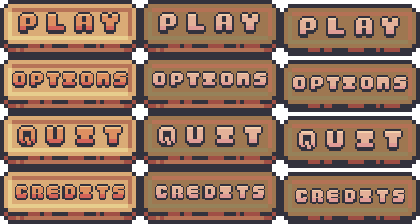
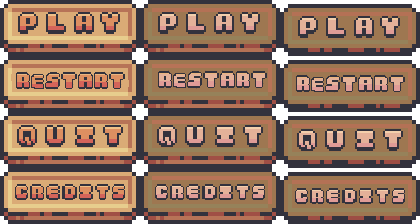
saving game level

Changed region(s): [[0.3405, 0.3125, 0.65, 0.4062], [0.0, 0.3125, 0.3095, 0.4062], [0.681, 0.3125, 0.9905, 0.4062]]

diff --git a/src/data/Save.java b/src/data/Save.java
@@ -1,0 +1,47 @@
+package data;
+
+import java.io.File;
+import java.io.FileInputStream;
+import java.io.FileOutputStream;
+import java.io.ObjectInputStream;
+import java.io.ObjectOutputStream;
+
+import levels.LevelManager;
+
+
+public class Save {
+    
+    LevelManager levelManager;
+
+    public Save(LevelManager levelManager) {
+        this.levelManager = levelManager;
+    }
+    
+    public void save () {
+        try {
+            ObjectOutputStream oos = new ObjectOutputStream(new FileOutputStream(new File("saving.dat")));
+            DataStorage ds = new DataStorage();
+            ds.level = levelManager.lvlIndex;  
+            
+            /*writes the DataStorage object*/
+            oos.writeObject(ds);
+        } catch (Exception e) {
+            System.out.println("Save Exception");
+        }
+    }
+    
+    public void load () {
+        try {
+             ObjectInputStream ois = new ObjectInputStream(new FileInputStream(new File("saving.dat")));
+             
+             /*reads the DataStorage object*/
+             DataStorage ds = (DataStorage)ois.readObject();
+             
+             levelManager.lvlIndex = ds.level;
+        } catch (Exception e) {
+            System.out.println("Load Exception");
+        }
+    }
+    
+    
+}

diff --git a/src/main/Game.java b/src/main/Game.java
@@ -1,5 +1,6 @@
 package main;
 
+import data.Save;
 import java.awt.Graphics;
 
 import gamestates.Menu;
@@ -7,11 +8,14 @@ import gamestates.Playing;
 import gamestates.Gamestate;
 import static gamestates.Gamestate.MENU;
 import static gamestates.Gamestate.PLAYING;
+import levels.LevelManager;
 
 public class Game implements Runnable {
     
     private GameWindow window;
     private GamePanel panel;
+    private LevelManager levelManager = new LevelManager(this);
+    private Save save = new Save(levelManager);
     private Thread gameThread;
     private final int FPS_SET = 120;
     private final int UPS_SET = 200;
@@ -55,11 +59,14 @@ public class Game implements Runnable {
             case PLAYING:
                 playing.update();
                 break;
-            case MENU:
+            case MENU:               
                 menu.update();
                 break;
             case OPTIONS:
-                System.out.println("Sorry, no options available.");
+                levelManager.lvlIndex = 0;
+                levelManager.save.save();
+                System.out.println("GAME RESTARTED. OPEN AGAIN.");
+                Gamestate.state = MENU;
             case QUIT:
                 System.out.println("QUIT");
             default:

diff --git a/src/levels/LevelManager.java b/src/levels/LevelManager.java
@@ -1,9 +1,11 @@
 package levels;
 
+
 import java.awt.Graphics;
 import java.awt.image.BufferedImage;
 import java.util.ArrayList;
 
+import data.Save;
 import main.Game;
 import utilz.LoadSave;
 import gamestates.Gamestate;
@@ -13,13 +15,17 @@ public class LevelManager {
     private Game game;
     private BufferedImage[] levelSprite;
     private ArrayList<Level> levels;
-    private int lvlIndex = 0;
+    public int lvlIndex = 0;
+    
+    /*saving*/
+    public Save save = new Save(this);
 
     public LevelManager(Game game){
         this.game = game;
         importOutsideSprites();
         levels = new ArrayList<>();
         buildLevels();
+        save.load();
     }
     
     public void loadNextLevel () {
@@ -29,6 +35,7 @@ public class LevelManager {
             System.out.println("NO MORE LEVELS! GAME COMPLETED!");
             System.out.println("Criadores:\nLuana Hartmann Franco da Cruz\nJoao Pedro Gomes");
             Gamestate.state = Gamestate.MENU;
+            save.save();
         } 
         else {
             System.out.println("NEXT LEVEL");

diff --git a/src/gamestates/Playing.java b/src/gamestates/Playing.java
@@ -100,7 +100,7 @@ public class Playing extends State implements Statemethods {
     }
 
     @Override
-    public void update() {
+    public void update() {                       
         
         if (paused) {
             pauseOverlay.update();
@@ -134,7 +134,6 @@ public class Playing extends State implements Statemethods {
     public void draw(Graphics g) {
         g.drawImage(backgroundImg, 0, 0, Game.GAME_WIDTH, Game.GAME_HEIGHT, null);
         drawClouds(g);
-        
         levelManager.draw(g, xLvlOffset);
         player.render(g, xLvlOffset);
         enemyManager.draw(g, xLvlOffset);
@@ -239,6 +238,10 @@ public class Playing extends State implements Statemethods {
                     Gamestate.state = Gamestate.MENU;
                 case KeyEvent.VK_ESCAPE:
                     paused = !paused;
+                    break;
+                case KeyEvent.VK_S:
+                    levelManager.save.save();
+                    System.out.println("GAME SAVE");
                     break;
             }
     }

diff --git a/src/gamestates/Menu.java b/src/gamestates/Menu.java
@@ -33,7 +33,7 @@ public class Menu extends State implements Statemethods{
     
     private void loadButtons() {
         buttons[0] = new MenuButton(Game.GAME_WIDTH/2, (int)(150*Game.SCALE),0,Gamestate.PLAYING);
-        buttons[1] = new MenuButton(Game.GAME_WIDTH/2, (int)(220*Game.SCALE),1,Gamestate.OPTIONS);
+        buttons[1] = new MenuButton(Game.GAME_WIDTH/2, (int)(220*Game.SCALE),1,Gamestate.OPTIONS); ///////////////////////
         buttons[2] = new MenuButton(Game.GAME_WIDTH/2, (int)(290*Game.SCALE),2,Gamestate.QUIT);
     }
 

diff --git a/src/main/GamePanel.java b/src/main/GamePanel.java
@@ -6,6 +6,7 @@ import java.awt.Dimension;
 import inputs.KeyboardInputs;
 import inputs.MouseInputs;
 
+import data.Save;
 import static main.Game.GAME_HEIGHT;
 import static main.Game.GAME_WIDTH;
 

diff --git a/src/data/DataStorage.java b/src/data/DataStorage.java
@@ -1,0 +1,10 @@
+package data;
+
+import java.io.Serializable;
+
+public class DataStorage implements Serializable {
+    
+    /*LEVEL*/
+    int level;
+    
+}
